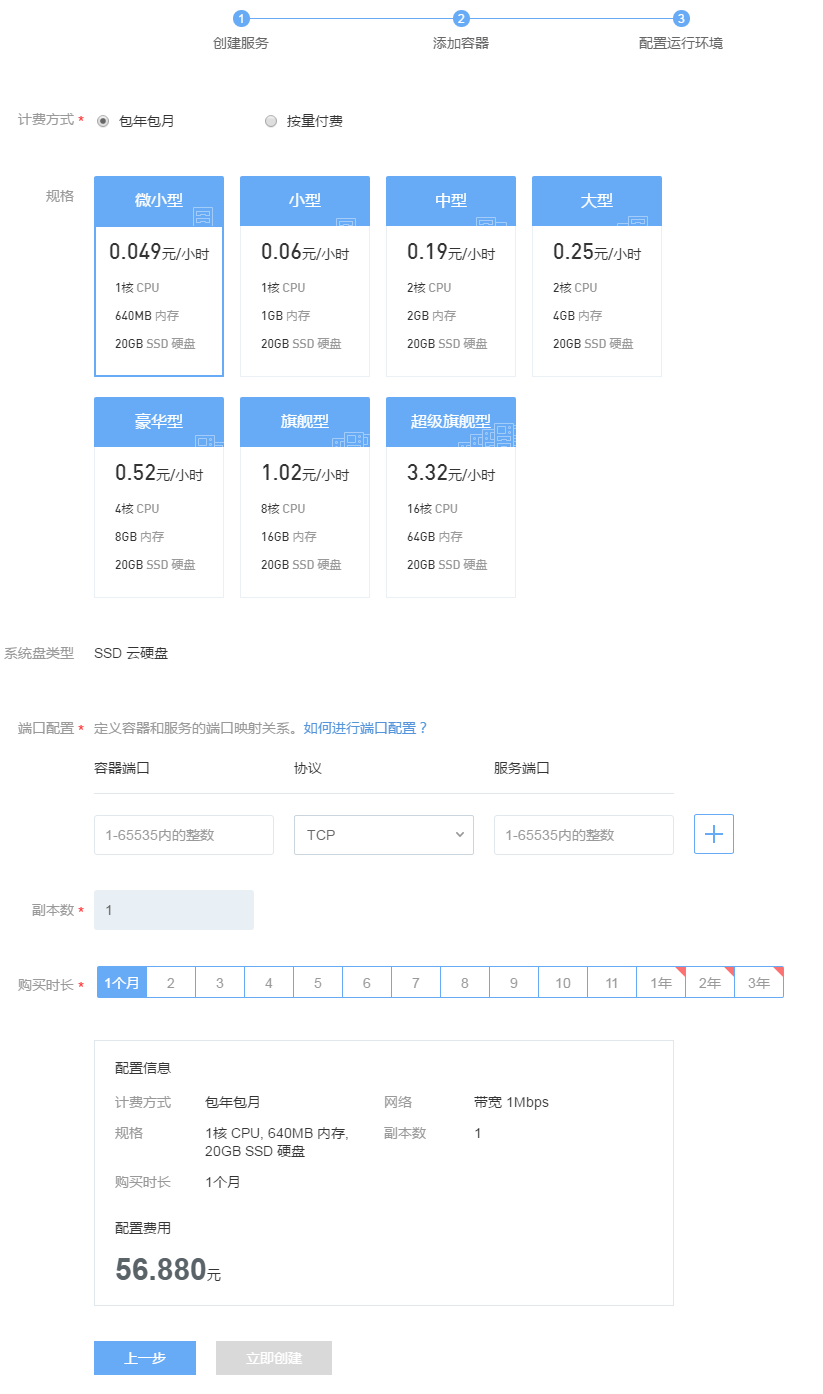
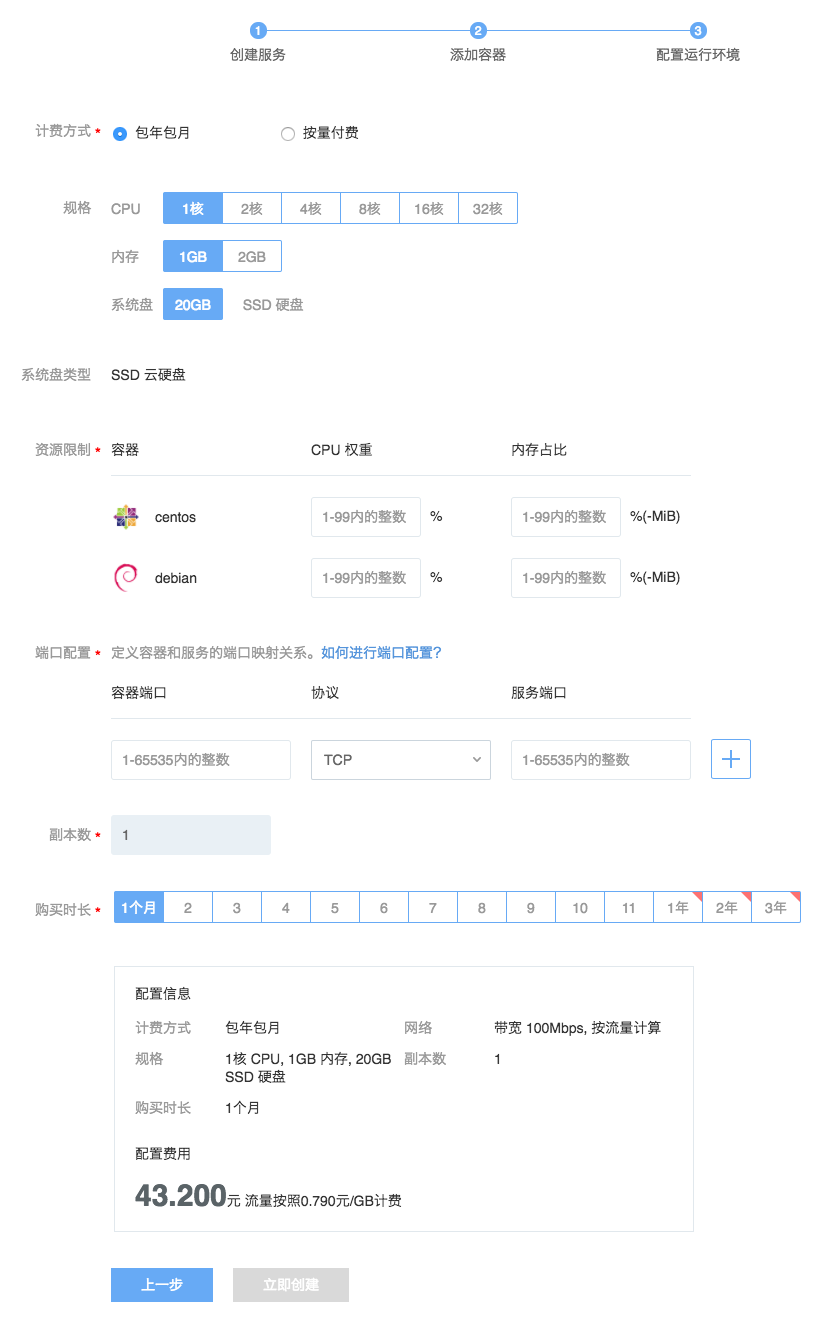
Enhanment:创建有状态服务

diff --git a/容器服务/服务管理/使用指南/创建有状态服务.md b/容器服务/服务管理/使用指南/创建有状态服务.md
@@ -38,7 +38,11 @@
 公网 IP 支持使用已申请的 IP 或申请新 IP。绑定公网 IP 的有状态服务在删除服务时将提示你是否需要同时释放公网 IP（默认不释放）。
 
 ### 2. 添加容器
-![](../image/创建服务-创建有状态服务-添加容器.png)
+![](../image/创建服务-创建有状态服务-添加多容器.png)
+
+#### 多容器
+
+支持单副本多容器，各容器共享副本的资源，详见 [多容器资源限制](http://127.0.0.1:8080/md.html#!容器服务/服务管理/常见问题/多容器资源限制.md)
 
 #### 选择镜像
 可选择的镜像分为「我的镜像」、「蜂巢官方镜像」和「Docker Hub 镜像」。
@@ -95,6 +99,9 @@
 你可以选择合适自己项目的规格。
 
 <span>Attention:</span><div class="alertContent">若使用蜂巢官方镜像，建议参考镜像中心的对应镜像说明的推荐规格</div>
+
+#### 资源限制
+当在一个副本中运行多个容器时，各个容器将会共享副本的计算资源（CPU 和内存），详见 [多容器资源限制](http://127.0.0.1:8080/md.html#!容器服务/服务管理/常见问题/多容器资源限制.md)
 
 #### 端口配置
 端口配置定义了容器和服务的端口映射关系，在容器端口填写进程监听的端口，在服务端口填写服务对外提供的端口。详见 [如何进行端口配置](http://support.c.163.com/wiki/md.html#!容器服务/服务管理/使用指南/如何进行端口配置.md)。
